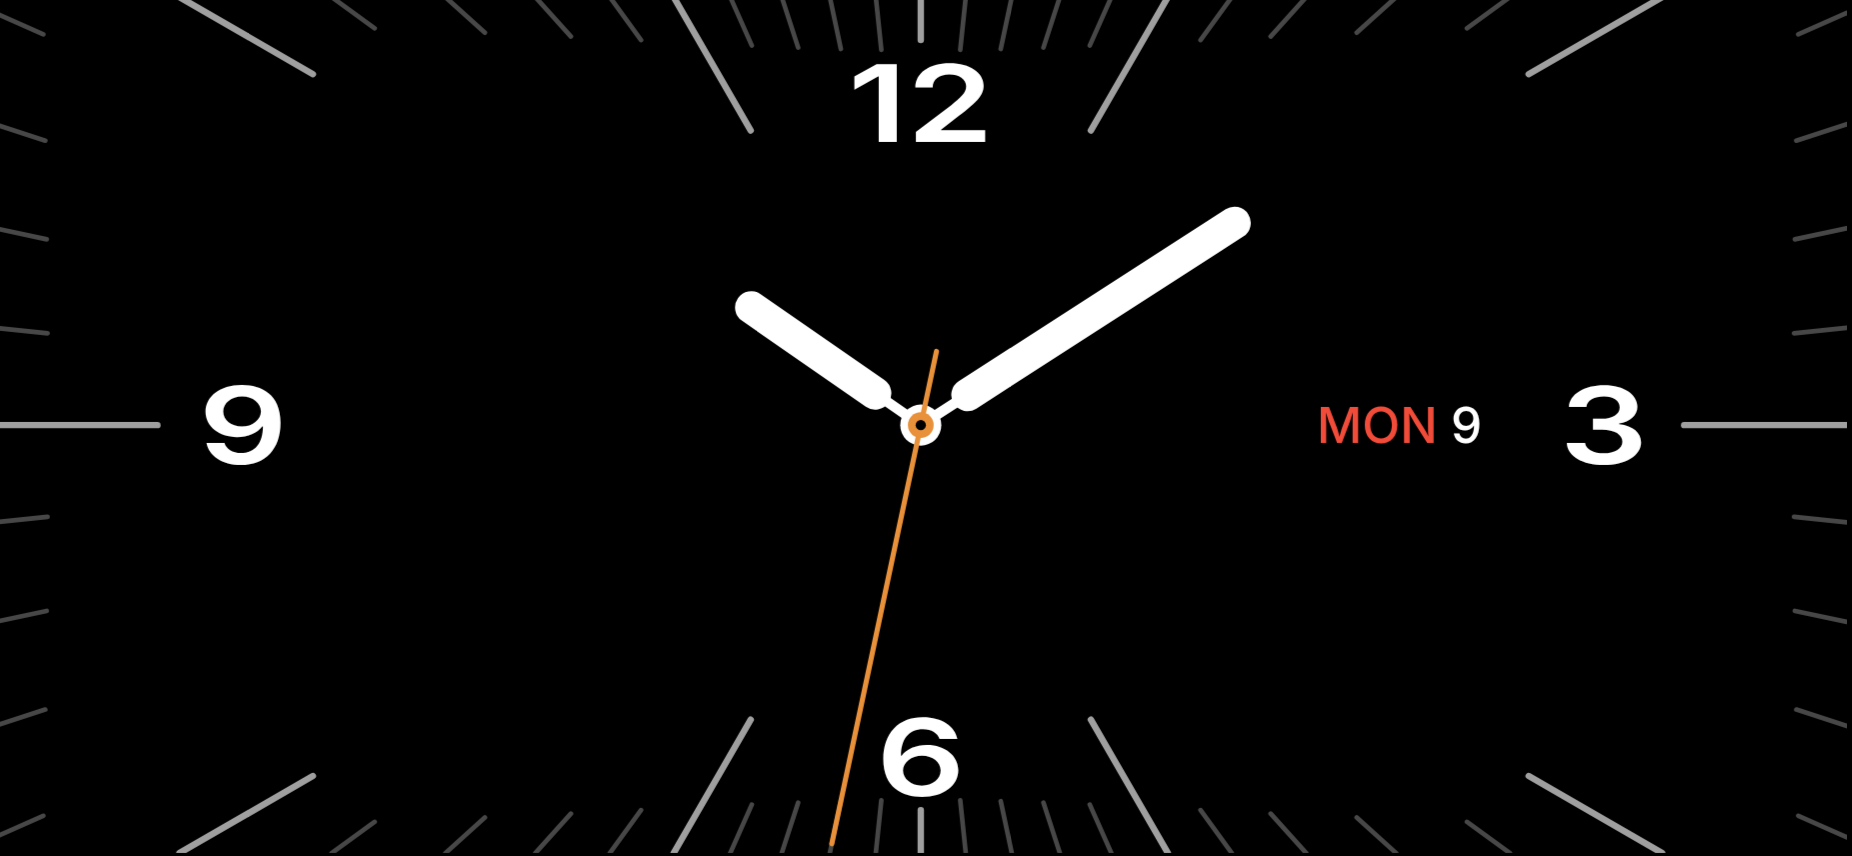
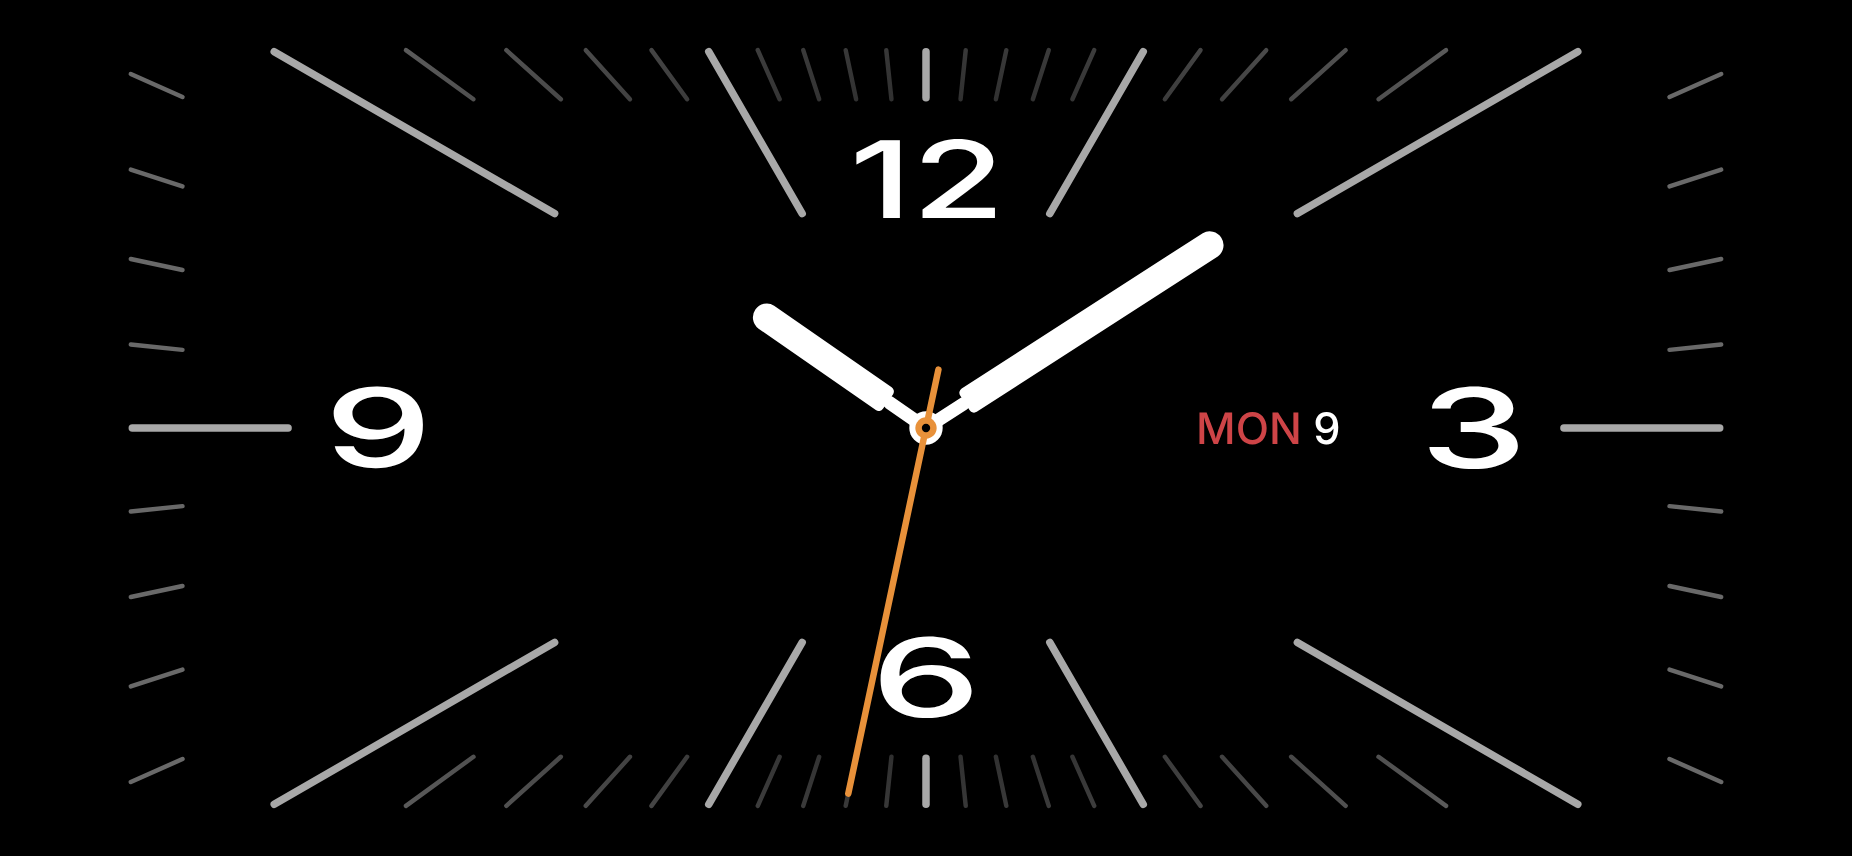
Match the full-screen dial to StandBy's Analog face
Rebuilt face 1 from measurements of an iPhone StandBy screenshot (sizes in
fractions of the screen's short side):
- Dial frame inset from the screen edges like StandBy (not the safe area).
- Each tick runs along a ray from the edge it leaves through to a line
  parallel to that edge, so slanted ticks come out longer; minor ticks fade
  from the centre outwards. Major ticks are #a8a8a8.
- Numerals use SF Pro Expanded where the browser exposes the system font's
  width axis, else a stretched normal width; each is fitted to the measured
  ink box via canvas text metrics.
- Hands: thinner stems, narrower bars with round tips, StandBy lengths;
  smaller hub and a slightly wider second hand.
- Date in the device language ("MON 9", "ПН, 9"), StandBy's size, colour
  and spacing from the 3.
The split face's square dial keeps its own builder.

Claude-Session: https://claude.ai/code/session_014GaNjz3Qz6PJHQLEaNb2Sy

diff --git a/index.html b/index.html
@@ -16,8 +16,10 @@
 <style>
   :root {
     --white: #ffffff;
-    --tick-major-a: #9f9f9f;
+    --tick-major-a: #a8a8a8;
     --tick-minor-a: #474747;
+    --tick-minor-fade: #696969;  /* face 1: minor ticks fade from black at the centre to this */
+    --date-red: #ce4447;
     --tick-major-b: #f3f2f8;
     --tick-minor-b: #525252;
     --second: #e8913a;
@@ -33,7 +35,7 @@
     --wu: 1vh;        /* widget unit: 1/100 of the widget area's height */
   }
   body.night {
-    --white: #ff3b2a; --tick-major-a: #b02414; --tick-minor-a: #4a0f08;
+    --white: #ff3b2a; --tick-major-a: #b02414; --tick-minor-a: #4a0f08; --tick-minor-fade: #6a150b; --date-red: #ff3b2a;
     --tick-major-b: #ff3b2a; --tick-minor-b: #5a130a;
     --second: #ff3b2a; --red: #ff3b2a; --gray: #8a1d10;
   }
@@ -267,7 +269,7 @@
   // ================= Orientation / layout =================
   // rot: 0 = none, 90 = rotated clockwise, -90 = counter-clockwise.
   // SW/SH = size of the safe-area clock area (#stage); ins = its insets inside #rot.
-  let rot = 0, SW = 0, SH = 0, portrait = false, ins = { t: 0, r: 0, b: 0, l: 0 };
+  let rot = 0, SW = 0, SH = 0, scr = { w: 0, h: 0 }, portrait = false, ins = { t: 0, r: 0, b: 0, l: 0 };
   const PR = { c: { x: 0, y: 0, w: 0, h: 0 }, w: { x: 0, y: 0, w: 0, h: 0 } };   // split-face pane rects in stage coords
   function screenInsets() {
     const cs = getComputedStyle($('safe'));
@@ -283,6 +285,7 @@
     rot = 0;
     if ((want === 'land') !== phoneLand) rot = S.orient === 'landscape-ccw' ? -90 : (S.orient === 'portrait' ? -90 : 90);
     const RW = rot ? h : w, RH = rot ? w : h;
+    scr = { w: RW, h: RH };
     const r = $('rot');
     r.style.width = RW + 'px'; r.style.height = RH + 'px';
     r.style.transform = rot === 90 ? `translate(${w}px,0) rotate(90deg)` : rot === -90 ? `translate(0,${h}px) rotate(-90deg)` : 'none';
@@ -313,7 +316,7 @@
     const qs = Math.min(PR.c.w * .92, PR.c.h * .9);
     Object.assign($('svgQ').style, { width: qs + 'px', height: qs + 'px', left: (PR.c.w - qs) / 2 + 'px', top: (PR.c.h - qs) / 2 + 'px' });
     $('svgQ').setAttribute('viewBox', `0 0 ${qs} ${qs}`);
-    Q = buildRectDial($('svgQ'), qs, qs, true);
+    Q = buildSquareDial($('svgQ'), qs);
     // Content boxes are scaled to fit their pane in both directions: digital time ~115 x 100 units, widgets 80 x 100.
     $('paneC').style.setProperty('--cu', Math.min(PR.c.h / 100, PR.c.w * .92 / 115) + 'px');
     $('paneW').style.setProperty('--wu', Math.min(PR.w.h / 100, PR.w.w * .9 / 80) + 'px');
@@ -344,76 +347,166 @@
       <circle cx="${cx}" cy="${cy}" r="${hubB}" fill="#000"/>`;
   }
 
-  // ================= Face 1 (and the split face's square dial): rectangular dial =================
-  // Ticks run along rays from the centre and end on the W x H rectangle's edge, so the dial follows
-  // its shape. Sizes are fractions of U = the shorter side. sq = the compact square variant.
-  let A = null, Q = null;
-  function buildA() { A = buildRectDial($('svgA'), SW, SH, false); }
-  function buildRectDial(svg, W, H, sq) {
-    const U = Math.min(W, H);
-    if (!W || !H) return null;
+  // ================= Face 1: full-screen dial, measured from Apple's StandBy "Analog" face =================
+  // All sizes are fractions of S = the screen's short side (from an iPhone StandBy screenshot).
+  // Every tick is a piece of a ray from the centre, from the dial's edge in to a line parallel to the edge
+  // the ray leaves through, so slanted ticks come out longer. Minor ticks fade towards the centre.
+  const AP = {
+    marginLong: .1502, marginShort: .0560,         // outer tick ends from the screen edges
+    minorIn: [.0656, .0625],                        // inner ends of minor + 12/6 ticks: inset from the edge [left/right, top/bottom]
+    majorIn: [.1907, .1979],                        // inner ends of 5-minute + 3/9 ticks
+    majorW: .00877, minorW: .0052, minorFade: .89, // minor ticks: black at the centre -> full colour at .89 S
+    num: { far: { w: .1040, h: .0952, gap: .0489 },   // 3 / 9 in landscape: ink box, gap to the major-tick ends
+           near: [{ w: .1623, h: .0909 }, { w: .1060, h: .0942 }], nearGap: .0440 },   // 12, 6: gap to the 12/6 tick ends
+    date: { size: .0507, gap: .106 },             // font size; gap between the date and the 3
+    hour: { len: .2435, w: .0325, start: .0541, stem: .0155, corner: .006 },
+    min:  { len: .4113, w: .0325, start: .0541, stem: .0155, corner: .006 },
+    sec:  { fwd: .4367, back: .0698, w: .0076, hubW: .0195, hubO: .01245, hubB: .0049 },
+  };
+  let S0 = 0;
+  const FAMILY = getComputedStyle(document.body).fontFamily;
+  const inkCtx = document.createElement('canvas').getContext('2d');
+  // Ink box of a string at font-size 100, relative to its start point on the baseline.
+  function ink(str, font) {
+    inkCtx.font = `${font} 100px ${FAMILY}`;
+    const m = inkCtx.measureText(str);
+    return { l: -m.actualBoundingBoxLeft, r: m.actualBoundingBoxRight, t: -m.actualBoundingBoxAscent, b: m.actualBoundingBoxDescent, w: m.width };
+  }
+  // The numerals use SF Pro Expanded where the browser offers the system font's width axis (Safari),
+  // else the normal width, stretched. Either way each numeral is fitted to Apple's measured ink box.
+  const NUMFONT = (() => {
+    const probe = (stretch) => {
+      const s = document.createElement('span');
+      s.style.cssText = `position:absolute;visibility:hidden;font:600 100px ${FAMILY};font-stretch:${stretch};white-space:nowrap`;
+      s.textContent = '1203469';
+      document.body.appendChild(s);
+      const w = s.getBoundingClientRect().width; s.remove(); return w;
+    };
+    const dom = probe('expanded') / probe('normal');
+    inkCtx.font = `600 expanded 100px ${FAMILY}`;
+    const ok = /expanded/.test(inkCtx.font);
+    const cv = ok ? inkCtx.measureText('1203469').width / ink('1203469', '600').w : 1;
+    return dom > 1.05 && Math.abs(cv / dom - 1) < .02 ? { canvas: '600 expanded', weight: 600, stretch: 'expanded' }
+                                                        : { canvas: '500', weight: 500, stretch: 'normal' };
+  })();
+  function fitText(str, box, font, attrs) {
+    const k = ink(str, font.canvas), px = .0011 * S0, py = .0008 * S0;   // measured ink boxes lose ~1px of antialiased edge
+    box = { x: box.x - px, y: box.y - py, w: box.w + 2 * px, h: box.h + 2 * py };
+    const sx = box.w / (k.r - k.l), sy = box.h / (k.b - k.t);
+    return `<text transform="translate(${fmt(box.x - sx * k.l)} ${fmt(box.y - sy * k.t)}) scale(${fmt(sx, 5)} ${fmt(sy, 5)})" font-size="100" font-weight="${font.weight}" font-stretch="${font.stretch}" ${attrs || ''}>${str}</text>`;
+  }
+  // Hand pointing up from (cx, cy): a thin stem, then a wide bar with a round tip and slightly rounded shoulders.
+  function appleHand(cls, cx, cy, p, S) {
+    const w = p.w * S, h = w / 2, x0 = cx - h, x1 = cx + h, yb = cy - p.start * S, yt = cy - p.len * S + h, rc = p.corner * S;
+    const d = `M${fmt(x0)} ${fmt(yb - rc)}V${fmt(yt)}A${fmt(h)} ${fmt(h)} 0 0 1 ${fmt(x1)} ${fmt(yt)}V${fmt(yb - rc)}` +
+              `A${fmt(rc)} ${fmt(rc)} 0 0 1 ${fmt(x1 - rc)} ${fmt(yb)}H${fmt(x0 + rc)}A${fmt(rc)} ${fmt(rc)} 0 0 1 ${fmt(x0)} ${fmt(yb - rc)}Z`;
+    return `<g class="${cls}" transform="rotate(0 ${cx} ${cy})">
+      <line x1="${cx}" y1="${cy}" x2="${cx}" y2="${fmt(yb + 1)}" stroke="var(--white)" stroke-width="${fmt(p.stem * S)}" stroke-linecap="round"/>
+      <path d="${d}" fill="var(--white)"/></g>`;
+  }
+  function buildA() {
+    const svg = $('svgA'), W = SW, H = SH;
+    if (!W || !H) { A = null; return; }
     svg.setAttribute('viewBox', `0 0 ${W} ${H}`);
+    const S = Math.min(scr.w, scr.h), land = W >= H;
+    S0 = S;
     const cx = W / 2, cy = H / 2;
+    // Outer rectangle half-sizes along the long (L) and short (s) screen axes, kept inside the safe area.
+    const hl = Math.min(Math.max(scr.w, scr.h) / 2 - AP.marginLong * S, Math.max(W, H) / 2 - .01 * S);
+    const hs = Math.min(S / 2 - AP.marginShort * S, Math.min(W, H) / 2 - .01 * S);
+    const [ox, oy] = land ? [hl, hs] : [hs, hl];
+    const inner = (ins) => [ox - ins[0] * S, oy - ins[1] * S];
+    const [mnx, mny] = inner(AP.minorIn), [mjx, mjy] = inner(AP.majorIn);
+    let html = `<defs><radialGradient id="aFade" gradientUnits="userSpaceOnUse" cx="${cx}" cy="${cy}" r="${fmt(AP.minorFade * S)}">
+      <stop offset="0" style="stop-color:var(--tick-minor-fade)" stop-opacity="0"/><stop offset=".62" style="stop-color:var(--tick-minor-fade)" stop-opacity=".66"/>
+      <stop offset="1" style="stop-color:var(--tick-minor-fade)"/></radialGradient></defs>`;
+    for (let i = 0; i < 60; i++) {
+      const a = i * Math.PI / 30, sx = Math.sin(a), sy = -Math.cos(a);
+      const shortAxis = land ? (i === 0 || i === 30) : (i === 15 || i === 45);
+      const major = i % 5 === 0 && !shortAxis;
+      const w = (i % 5 === 0 ? AP.majorW : AP.minorW) * S;
+      // Does the ray leave through a side or the top/bottom? The tick runs from that edge to the matching
+      // inner line; the round caps reach past both ends (their extent across the edge is what was measured).
+      const side = Math.abs(sx) * oy > Math.abs(sy) * ox, e = side ? Math.abs(sx) : Math.abs(sy);
+      const o = side ? ox : oy, n = side ? (major ? mjx : mnx) : (major ? mjy : mny);
+      const t1 = (o - w / 2) / e, t0 = (n + w / 2) / e;
+      const col = i % 5 === 0 ? 'var(--tick-major-a)' : 'url(#aFade)';
+      html += `<line x1="${fmt(cx + sx * t0)}" y1="${fmt(cy + sy * t0)}" x2="${fmt(cx + sx * t1)}" y2="${fmt(cy + sy * t1)}" stroke="${col}" stroke-width="${fmt(w)}" stroke-linecap="round"/>`;
+    }
+    // Numerals: 3 / 9 sit just inside the long ticks on the long axis, 12 / 6 just inside the short ticks.
+    const f = AP.num.far, n = AP.num.near, box = {};
+    const farOff = (land ? mjx : mjy) - f.gap * S, nearOff = (land ? mny : mnx) - AP.num.nearGap * S;
+    if (land) {
+      box[3] = { x: cx + farOff - f.w * S, y: cy - f.h * S / 2, w: f.w * S, h: f.h * S };
+      box[9] = { x: cx - farOff, y: cy - f.h * S / 2, w: f.w * S, h: f.h * S };
+      box[12] = { x: cx - n[0].w * S / 2, y: cy - nearOff, w: n[0].w * S, h: n[0].h * S };
+      box[6] = { x: cx - n[1].w * S / 2, y: cy + nearOff - n[1].h * S, w: n[1].w * S, h: n[1].h * S };
+    } else {
+      box[12] = { x: cx - n[0].w * S / 2, y: cy - farOff, w: n[0].w * S, h: n[0].h * S };
+      box[6] = { x: cx - n[1].w * S / 2, y: cy + farOff - n[1].h * S, w: n[1].w * S, h: n[1].h * S };
+      box[3] = { x: cx + nearOff - f.w * S, y: cy - f.h * S / 2, w: f.w * S, h: f.h * S };
+      box[9] = { x: cx - nearOff, y: cy - f.h * S / 2, w: f.w * S, h: f.h * S };
+    }
+    for (const k of [12, 3, 6, 9]) html += fitText(k, box[k], NUMFONT, 'fill="var(--white)"');
+    html += `<text class="aDate" font-weight="500" font-size="${fmt(AP.date.size * S)}"><tspan fill="var(--date-red)" class="aDow"></tspan><tspan fill="var(--white)" class="aDay"></tspan></text>`;
+    html += appleHand('hh', cx, cy, AP.hour, S) + appleHand('hm', cx, cy, AP.min, S);
+    const c = AP.sec;
+    html += secondSVG(cx, cy, c.fwd * S, c.back * S, c.w * S, c.hubW * S, c.hubO * S, c.hubB * S);
+    svg.innerHTML = html;
+    const dow = svg.querySelector('.aDow'), day = svg.querySelector('.aDay'), date = svg.querySelector('.aDate');
+    // Date in the device's language and order (e.g. "MON 9", "ПН, 9"); the weekday in red.
+    // Landscape: ends a fixed gap left of the 3, shrunk if it would reach the hub. Portrait: centred between the hub and the 6.
+    const setDate = (now) => {
+      const parts = new Intl.DateTimeFormat(undefined, { weekday: 'short', day: 'numeric' }).formatToParts(now);
+      const wd = parts.find(p => p.type === 'weekday').value.toLocaleUpperCase();
+      const sep = parts[0].type === 'weekday' && parts[1].type === 'literal' ? parts[1].value : ' ';   // "ПН, 9"; en-US would say "9 Mon"
+      const rest = sep + now.getDate();
+      dow.textContent = wd; day.textContent = rest;
+      const size = AP.date.size * S, all = ink(wd + rest, '500'), cap = -ink(wd, '500').t;
+      let k = size / 100;
+      if (land) {
+        const right = box[3].x - AP.date.gap * S, left = cx + c.hubW * S + .03 * S;
+        k = Math.min(k, (right - left) / (all.r - all.l));
+        date.setAttribute('x', fmt(right - all.r * k));
+      } else {
+        date.setAttribute('x', fmt(cx - (all.l + all.r) / 2 * k));
+      }
+      const yMid = land ? cy : (cy + c.hubW * S + box[6].y) / 2;
+      date.setAttribute('font-size', fmt(k * 100));
+      date.setAttribute('y', fmt(yMid + cap * k / 2));
+    };
+    A = { cx, cy, h: svg.querySelector('.hh'), m: svg.querySelector('.hm'), s: svg.querySelector('.hs'), setDate };
+    lastDateKey = '';
+  }
+
+  // ================= Split face: square dial =================
+  // Ticks run along rays from the centre and end on the square's edge. Sizes are fractions of U = its side.
+  let A = null, Q = null;
+  function buildSquareDial(svg, U) {
+    if (!U) return null;
+    svg.setAttribute('viewBox', `0 0 ${U} ${U}`);
+    const cx = U / 2, cy = U / 2;
     let html = '';
     for (let i = 0; i < 60; i++) {
       const a = i * Math.PI / 30, sx = Math.sin(a), sy = -Math.cos(a);
-      const t = Math.min(Math.abs(sx) > 1e-6 ? (W / 2) / Math.abs(sx) : Infinity,
-                         Math.abs(sy) > 1e-6 ? (H / 2) / Math.abs(sy) : Infinity);
+      const t = (U / 2) / Math.max(Math.abs(sx), Math.abs(sy));
       const ox = cx + sx * t, oy = cy + sy * t;
-      // the two numerals on the short axis get a short tick, the other two a long one
-      const shortAxis = sq || (W >= H ? (i === 0 || i === 30) : (i === 15 || i === 45));
       let len, w, col;
-      if (i % 15 === 0)     { len = shortAxis ? .05 * U : .19 * U; w = .0075 * U; col = 'var(--tick-major-a)'; }
-      else if (i % 5 === 0) { len = (sq ? .15 : .18) * U;  w = .0075 * U; col = 'var(--tick-major-a)'; }
+      if (i % 15 === 0)     { len = .05 * U; w = .0075 * U; col = 'var(--tick-major-a)'; }
+      else if (i % 5 === 0) { len = .15 * U; w = .0075 * U; col = 'var(--tick-major-a)'; }
       else                  { len = .062 * U; w = .0055 * U; col = 'var(--tick-minor-a)'; }
       html += `<line x1="${fmt(ox)}" y1="${fmt(oy)}" x2="${fmt(ox - sx * len)}" y2="${fmt(oy - sy * len)}" stroke="${col}" stroke-width="${fmt(w)}" stroke-linecap="round"/>`;
     }
-    const fs = (sq ? .12 : .125) * U;
+    const fs = .12 * U;
     const num = (n, x, y) => `<text transform="translate(${fmt(x)} ${fmt(y)}) scale(1.3 1)" text-anchor="middle" dominant-baseline="central" font-size="${fmt(fs)}" font-weight="600" fill="var(--white)">${n}</text>`;
-    const land = sq || W >= H * .87;   // near-square portrait screens use the landscape layout too
-    // 3 / 9: on near-square screens push them out so the date still fits between the hub and the 3.
-    let x3 = W - .284 * U, x9 = .29 * U;
-    if (sq) { x3 = W - .15 * U; x9 = .15 * U; }
-    else if (land) { x3 = Math.min(W - .15 * U, Math.max(x3, cx + .36 * U)); x9 = Math.max(.15 * U, Math.min(x9, cx - .36 * U)); }
-    const y12 = sq ? .19 * U : land ? .124 * U : .29 * U, y6 = sq ? H - .19 * U : land ? H - .112 * U : H - .29 * U;
-    html += num(12, cx, y12) + num(3, x3, cy) + num(6, cx, y6) + num(9, x9, cy);
-    if (!sq) html += `<text class="aDate" dominant-baseline="central" font-weight="500"><tspan fill="var(--red)" class="aDow"></tspan><tspan fill="var(--white)" class="aDay"></tspan></text>`;
-    const L = land ? 1 : 1.35;   // longer hands on the taller portrait dial
-    html += handSVG('hh', cx, cy, .065 * U, .012 * U, .26 * U * L, .038 * U, 'var(--white)');
-    html += handSVG('hm', cx, cy, .065 * U, .012 * U, .455 * U * (sq ? .97 : land ? 1 : .98), .038 * U, 'var(--white)');
-    html += secondSVG(cx, cy, .5 * U * (sq ? .96 : land ? 1 : .96), .088 * U, .006 * U, .024 * U, .015 * U, .006 * U);
+    html += num(12, cx, .19 * U) + num(3, U - .15 * U, cy) + num(6, cx, U - .19 * U) + num(9, .15 * U, cy);
+    html += handSVG('hh', cx, cy, .065 * U, .012 * U, .26 * U, .038 * U, 'var(--white)');
+    html += handSVG('hm', cx, cy, .065 * U, .012 * U, .455 * U * .97, .038 * U, 'var(--white)');
+    html += secondSVG(cx, cy, .5 * U * .96, .088 * U, .006 * U, .024 * U, .015 * U, .006 * U);
     svg.innerHTML = html;
-    lastDateKey = '';
-    return { cx, cy, h: svg.querySelector('.hh'), m: svg.querySelector('.hm'), s: svg.querySelector('.hs'),
-             dow: svg.querySelector('.aDow'), day: svg.querySelector('.aDay'), date: svg.querySelector('.aDate'),
-             g: { W, H, U, cx, cy, x3, y6, fs, land, dateBase: (sq ? .044 : land ? .058 : .0725) * U } };
+    return { cx, cy, h: svg.querySelector('.hh'), m: svg.querySelector('.hm'), s: svg.querySelector('.hs') };
   }
 
-  // The face-1 date goes right of the hub (landscape) or below it (portrait). On near-square screens the
-  // preferred slot gets squeezed by the 3 / 6 numerals, so fall back to the other slot, then to a smaller font.
-  function placeDate(D) {
-    const t = D && D.date;
-    if (!t) return;
-    const { U, cx, cy, x3, y6, fs, land, dateBase: base } = D.g;
-    t.setAttribute('font-size', fmt(base));
-    const len = t.getComputedTextLength() || base * 3.7;          // width at the base size
-    const hub = .05 * U, gap = .03 * U, capH = .72;                // capH: cap height / font size
-    const rL = cx + hub + gap, rR = x3 - .39 * fs - gap;           // right slot: hub .. left edge of "3"
-    const bT = cy + hub + gap, bB = y6 - capH / 2 * fs - gap;      // below slot: hub .. top of "6"
-    const fitR = Math.min(1, (rR - rL) / len), fitB = Math.min(1, (bB - bT) / (capH * base), D.g.W * .8 / len);
-    // Landscape / square: always on the 9-3 line (shrunk to fit if needed). Portrait: above the 6.
-    const useR = land || (fitB < 1 && fitR > fitB);
-    const size = base * (useR ? fitR : fitB);
-    t.setAttribute('font-size', fmt(size));
-    if (useR) {
-      const x = Math.max(rL + len * size / base, Math.min(x3 - .142 * U, rR));   // original spot when it fits
-      t.setAttribute('x', fmt(x)); t.setAttribute('y', fmt(cy)); t.setAttribute('text-anchor', 'end');
-    } else {
-      const half = capH * size / 2;
-      const y = Math.min(cy + .3 * U, bB - half);                  // original spot when it fits
-      t.setAttribute('x', fmt(cx)); t.setAttribute('y', fmt(Math.max(bT + half, y))); t.setAttribute('text-anchor', 'middle');
-    }
-  }
 
   // ================= Face 2: dial (viewBox -100..100, ticks end at r=98.5) =================
   let B;
@@ -639,7 +732,7 @@
     const dKey = now.toDateString() + weekStart();
     if (dKey !== lastDateKey) {
       lastDateKey = dKey;
-      for (const D of [A, Q]) if (D && D.date) { D.dow.textContent = dowShort; D.day.textContent = ' ' + now.getDate(); placeDate(D); }
+      if (A) A.setDate(now);
       renderCal(now);
       $('dDate').innerHTML = `<b>${now.toLocaleDateString('en-US', { weekday: 'long' })}</b> ${now.toLocaleDateString('en-US', { month: 'long', day: 'numeric' })}`;
       $('wtD').innerHTML = `<b>${dowShort}</b> ${now.getDate()}`;

diff --git a/README.md b/README.md
@@ -24,7 +24,7 @@ Unofficial project, not affiliated with or endorsed by Apple. The faces are orig
 
 - **Stays on.** Uses the Screen Wake Lock API, so the screen doesn't auto-lock while the clock is open.
 - **Three faces.** Swipe left or right to switch:
-  1. **Full-screen dial:** ticks run out to the screen edges, with big 12 / 3 / 6 / 9 numerals and the date.
+  1. **Full-screen dial:** a copy of StandBy's Analog face, measured from an iPhone screenshot: the rectangular tick frame, wide 12 / 3 / 6 / 9 numerals, the hands and the date (in your device's language, e.g. “MON 9” or “ПН, 9”).
   2. **Clock + widgets:** two halves you each **swipe up and down**: the clock (round dial / square dial / digital) and the widgets (weather / calendar, with faint ‹ › to page through months). **Double-tap** to swap which side the clock is on.
   3. **Big digital clock.**
 - **Night mode.** Everything turns dim red during set hours (22:30 to 07:00 by default), or always on, or off.
